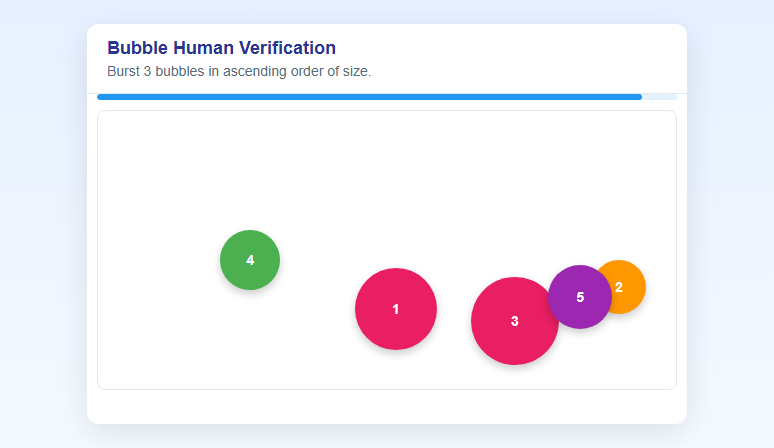
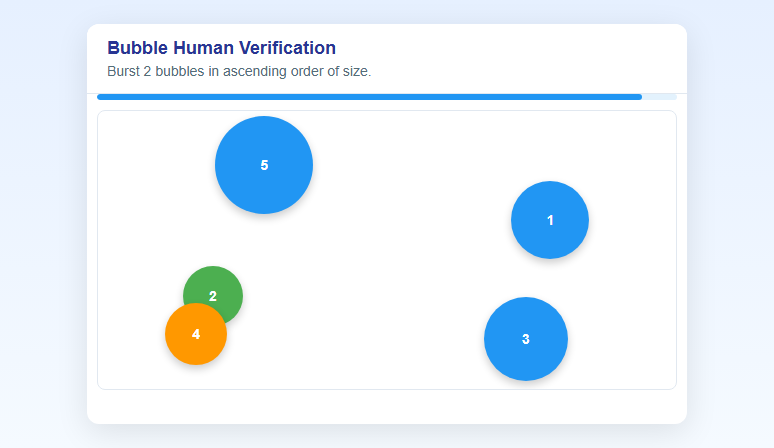
fix some errors

Changed region(s): [[0.4341, 0.4062, 0.8372, 0.875], [0.186, 0.25, 0.4031, 0.8438]]

diff --git a/brute_force_attacker/version2_headlesschrome-local/run_attacker.py b/brute_force_attacker/version2_headlesschrome-local/run_attacker.py
@@ -299,10 +299,10 @@ class HeadlessBubbleAttacker:
                     "data-captcha-result"
                 )
                 if result == "success":
-                    print("🎉 Verification successful!")
+                    print("Verification successful!")
                     return True
                 elif result == "failed":
-                    print("❌ Verification failed")
+                    print("Verification failed")
                     return False
             except:
                 pass
@@ -315,17 +315,17 @@ class HeadlessBubbleAttacker:
                 for banner in result_banners:
                     text = banner.text.lower()
                     if "success" in text or "passed" in text:
-                        print("🎉 Verification successful!")
+                        print("Verification successful!")
                         return True
                     elif "fail" in text or "error" in text:
-                        print("❌ Verification failed")
+                        print("Verification failed")
                         return False
             except:
                 pass
 
             time.sleep(0.5)
 
-        print("⏰ Result wait timeout")
+        print("Result wait timeout")
         return False
 
     def run_attack(self):
@@ -392,6 +392,6 @@ if __name__ == "__main__":
     success = attacker.run_attack()
 
     if success:
-        print("🎊 Attack completed successfully!")
+        print("Attack completed successfully!")
     else:
-        print("💥 Attack failed")
+        print("Attack failed")
